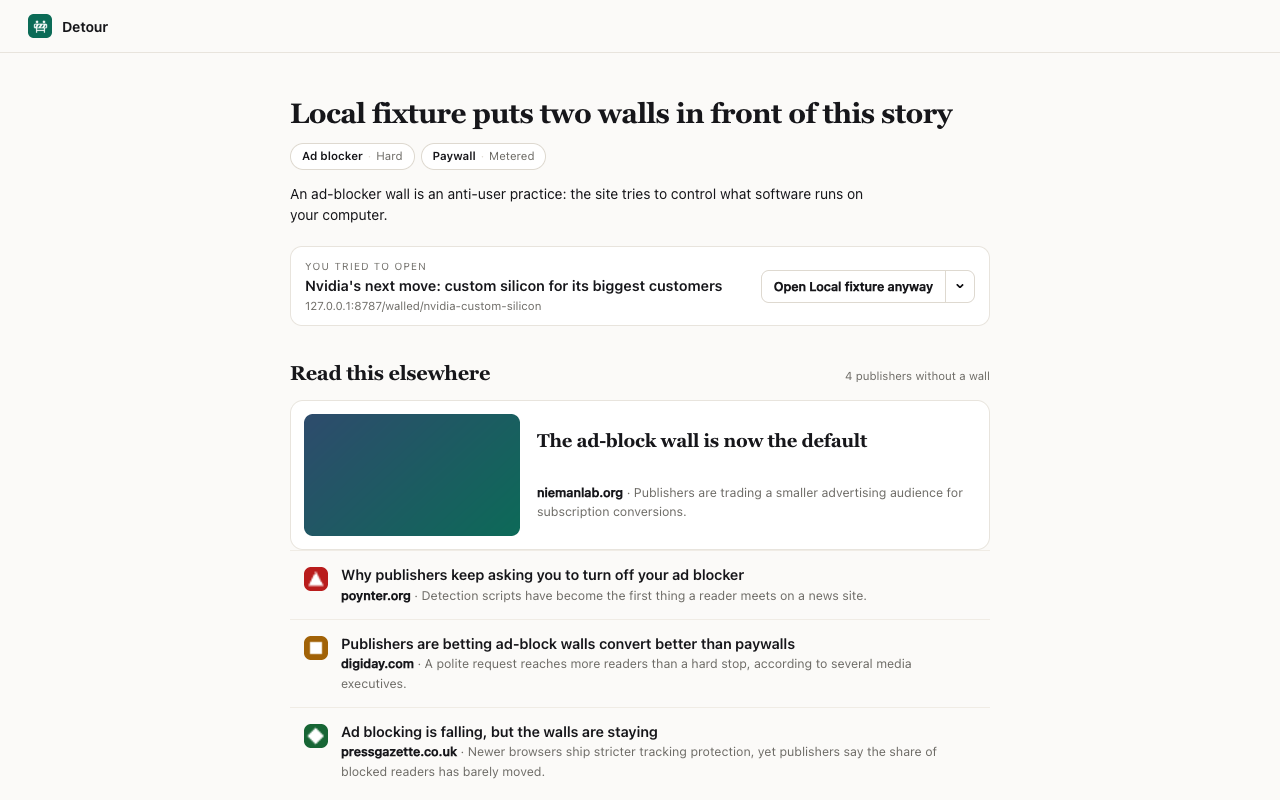
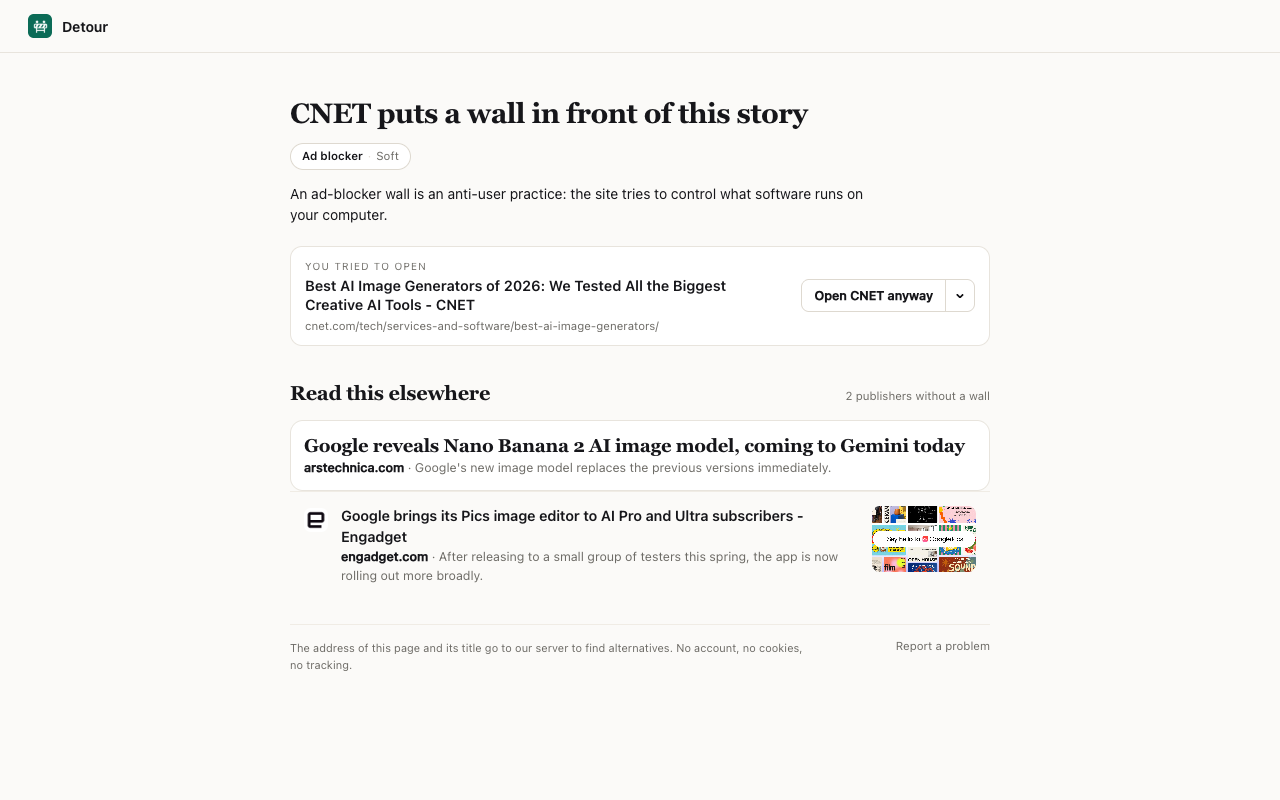
Take the store shot from a real article
The block page screenshot came from the local fixture, so the listing read
"Local fixture" and 127.0.0.1. `pnpm store:shot --live=<url>` builds the
development extension against the production backend, stops a real article,
and waits for the real answers. The shot now names CNET, its article, and the
publishers that carry the story.

The real answers showed a fault. A preview image that the backend cannot fetch
left a broken picture in the row. A failed image now leaves the row without one
and switches the row to its text layout.

The store item id is gjmlbmcaklcbificepnkpenfhelngklo. The release tool names it
in DEFAULT_ITEM_ID, CWS_ITEM_ID overrides it, and the backend allows it next to
the development id.

pnpm check passes 693 tests.

diff --git a/store/capture.ts b/store/capture.ts
@@ -7,6 +7,7 @@ import type { BrowserContext, Page } from '@playwright/test';
 import { chromium } from '@playwright/test';
 
 import { startDummyServer } from '../dev/dummy-server';
+import { RELEASE_API_BASE } from './listing';
 
 export const ROOT = resolve(import.meta.dirname, '..');
 export const ASSETS = join(ROOT, 'store', 'assets');
@@ -131,8 +132,99 @@ async function launch(
   });
 }
 
+/**
+ * The address of a real article that the list walls. The run builds the release
+ * extension, so the block page asks the production backend for the answers.
+ */
+export function liveUrl(argv: readonly string[]): string | null {
+  const flag = argv.find((arg) => arg.startsWith('--live='));
+
+  if (flag === undefined) {
+    return null;
+  }
+
+  const value = flag.slice('--live='.length).trim();
+
+  if (!value.startsWith('https://')) {
+    throw new Error('--live takes the https address of an article that the list walls');
+  }
+
+  return value;
+}
+
+/** The dist directory must be the release build, which names the backend. */
+async function requireReleaseBuild(): Promise<void> {
+  const manifest = JSON.parse(await readFile(join(DIST, 'manifest.json'), 'utf8')) as {
+    host_permissions?: string[];
+  };
+
+  if (!(manifest.host_permissions ?? []).includes(`${RELEASE_API_BASE}/*`)) {
+    throw new Error('this build does not name the release backend; run pnpm store:shot');
+  }
+}
+
 async function ready(context: BrowserContext): Promise<void> {
   await (context.serviceWorkers()[0] ?? context.waitForEvent('serviceworker'));
+}
+
+/** The block page of one guarded address, after the answers arrive. */
+async function shootBlocked(context: BrowserContext, url: string): Promise<Buffer> {
+  const page = await context.newPage();
+
+  try {
+    await page.setViewportSize(SHOT);
+    await page.goto(url).catch((error: unknown) => {
+      if (!(error instanceof Error) || !ABORTED.test(error.message)) {
+        throw error;
+      }
+    });
+    await page.waitForURL(BLOCK_PAGE, { timeout: 20_000 });
+
+    const answers = page.locator('[data-role="alternatives"]');
+
+    try {
+      await answers.and(page.locator('[data-state="results"]')).waitFor({ timeout: 30_000 });
+    } catch {
+      const state = await answers.getAttribute('data-state');
+
+      throw new Error(`the block page ended as "${state ?? 'unknown'}" and not "results"`);
+    }
+    await page
+      .waitForFunction(
+        () => [...document.images].every((image) => image.complete && image.naturalWidth > 0),
+        undefined,
+        { timeout: 15_000 },
+      )
+      .catch(() => undefined);
+
+    return await page.screenshot({ fullPage: false });
+  } finally {
+    await page.close();
+  }
+}
+
+/**
+ * One shot of a real article. The page, the title, and the answers are the ones
+ * that a reader meets, so the listing shows no fixture text.
+ */
+async function captureLive(url: string): Promise<void> {
+  await requireReleaseBuild();
+
+  const profile = await mkdtemp(join(tmpdir(), 'detour-store-'));
+  const context = await launch(profile, SHOT, 1);
+
+  try {
+    await ready(context);
+    await mkdir(ASSETS, { recursive: true });
+
+    const path = join(ASSETS, 'screenshot-block.png');
+
+    await writeFile(path, await shootBlocked(context, url));
+    process.stdout.write(`${path}\n`);
+  } finally {
+    await context.close();
+    await rm(profile, { recursive: true, force: true });
+  }
 }
 
 /**
@@ -141,6 +233,14 @@ async function ready(context: BrowserContext): Promise<void> {
  * cannot show a page that no longer exists.
  */
 async function main(): Promise<void> {
+  const live = liveUrl(process.argv.slice(2));
+
+  if (live !== null) {
+    await captureLive(live);
+
+    return;
+  }
+
   const server = await startDummyServer({ port: PORT }).catch((error: unknown) => {
     throw new Error(
       `the dummy server did not start on ${ORIGIN}: ${error instanceof Error ? error.message : String(error)}`,
@@ -163,30 +263,7 @@ async function main(): Promise<void> {
   try {
     await Promise.all([ready(page), ready(crisp)]);
 
-    const blocked = await page.newPage();
-
-    await blocked.goto(BLOCK_URL).catch((error: unknown) => {
-      if (!(error instanceof Error) || !ABORTED.test(error.message)) {
-        throw error;
-      }
-    });
-    await blocked.waitForURL(BLOCK_PAGE, { timeout: 15_000 });
-    await blocked.locator('[data-role="alternatives"][data-state="results"]').waitFor({
-      timeout: 20_000,
-    });
-    await blocked
-      .waitForFunction(
-        () => [...document.images].every((image) => image.complete && image.naturalWidth > 0),
-        undefined,
-        { timeout: 10_000 },
-      )
-      .catch(() => undefined);
-
-    await writeFile(
-      join(ASSETS, 'screenshot-block.png'),
-      await blocked.screenshot({ fullPage: false }),
-    );
-    await blocked.close();
+    await writeFile(join(ASSETS, 'screenshot-block.png'), await shootBlocked(page, BLOCK_URL));
 
     const settings = await page.newPage();
 

diff --git a/packages/extension/src/block-results.ts b/packages/extension/src/block-results.ts
@@ -104,12 +104,18 @@ function tileElement(alternative: Alternative, imagesEnabled: boolean): HTMLSpan
   return tile;
 }
 
-function imageElement(url: string): HTMLImageElement {
+/**
+ * The preview image of a row. The backend serves it and a publisher may refuse
+ * that request, so a failed image leaves the row without one and not with a
+ * broken picture.
+ */
+function imageElement(url: string, onFail: () => void): HTMLImageElement {
   const image = document.createElement('img');
 
   image.alt = '';
   image.setAttribute('referrerpolicy', 'no-referrer');
   image.setAttribute('loading', 'lazy');
+  image.addEventListener('error', onFail);
   image.src = url;
 
   return image;
@@ -128,7 +134,12 @@ function rowFor(alternative: Alternative, imagesEnabled: boolean, hero: boolean)
   const row = document.createElement('li');
   const link = document.createElement('a');
   const preview =
-    imagesEnabled && typeof alternative.image === 'string' ? imageElement(alternative.image) : null;
+    imagesEnabled && typeof alternative.image === 'string'
+      ? imageElement(alternative.image, () => {
+          preview?.remove();
+          row.dataset.layout = 'text';
+        })
+      : null;
 
   row.dataset.variant = hero ? 'hero' : 'row';
 

diff --git a/store/release.ts b/store/release.ts
@@ -8,6 +8,9 @@ import { RELEASE_API_BASE } from './listing';
 import { DIST, OUT } from './pack';
 import { compareVersions, versionProblem } from './version';
 
+/** The item that the store created for this extension. */
+export const DEFAULT_ITEM_ID = 'gjmlbmcaklcbificepnkpenfhelngklo';
+
 /** How long the upload may stay IN_PROGRESS before the run gives up. */
 export const UPLOAD_WAIT_SECONDS = 120;
 
@@ -274,16 +277,12 @@ async function main(): Promise<void> {
   const args = parseArgs(process.argv.slice(2));
   const env = process.env;
   const publisherId = env.CWS_PUBLISHER_ID?.trim() ?? '';
-  const itemId = env.CWS_ITEM_ID?.trim() ?? '';
+  const itemId = env.CWS_ITEM_ID?.trim() || DEFAULT_ITEM_ID;
   const clientId = env.CWS_CLIENT_ID?.trim() ?? '';
   const refreshToken = env.CWS_REFRESH_TOKEN?.trim() ?? '';
 
   if (publisherId === '') {
     throw new Error('CWS_PUBLISHER_ID is not set; it is the id of the Publisher, not of the item');
-  }
-
-  if (itemId === '') {
-    throw new Error('CWS_ITEM_ID is not set; the dashboard shows it on the Package tab');
   }
 
   if (clientId === '' || refreshToken === '') {

diff --git a/store/capture.test.ts b/store/capture.test.ts
@@ -11,6 +11,7 @@ import {
   SHOT,
   STORE_ICON,
   TILE,
+  liveUrl,
   marqueePage,
   stagePage,
   storeIconPage,
@@ -127,6 +128,13 @@ describe('the store images', () => {
     expect(html).toContain(`height: ${SHOT.height}px`);
     expect(html).toContain('#FBFAF8');
     expect(html).toContain(LOGO);
+  });
+
+  it('takes the address of a real article and refuses anything else', () => {
+    expect(liveUrl([])).toBeNull();
+    expect(liveUrl(['--live=https://www.cnet.com/a'])).toBe('https://www.cnet.com/a');
+    expect(() => liveUrl(['--live=http://www.cnet.com/a'])).toThrow('https');
+    expect(() => liveUrl(['--live='])).toThrow('https');
   });
 
   it('keeps the popup at the width of its frame', () => {

diff --git a/store/release.test.ts b/store/release.test.ts
@@ -1,9 +1,15 @@
 import { describe, expect, it } from 'vitest';
 
 import type { ReleaseOptions, StoreClient, StatusView } from './release';
-import { highest, parseArgs, refusal, runRelease, statusView } from './release';
+import { DEFAULT_ITEM_ID, highest, parseArgs, refusal, runRelease, statusView } from './release';
 
 const ITEM = 'jcncblagncbpbamfnekhdkomffdpehpk';
+
+describe('the store item', () => {
+  it('names the item from the store, which is 32 letters from a to p', () => {
+    expect(DEFAULT_ITEM_ID).toMatch(/^[a-p]{32}$/);
+  });
+});
 
 function revision(state: string, version: string | null): Record<string, unknown> {
   return {

diff --git a/packages/extension/src/block-results.test.ts b/packages/extension/src/block-results.test.ts
@@ -239,6 +239,18 @@ describe('the alternatives list', () => {
     expect(tile?.textContent).toBe('T');
   });
 
+  it('drops a preview image that does not load', () => {
+    renderAlternatives(view({ state: 'results', answer: ANSWER }));
+
+    const hero = rows()[0];
+    const image = hero?.querySelector('img');
+
+    image?.dispatchEvent(new Event('error'));
+
+    expect(hero?.querySelector('img')).toBeNull();
+    expect(hero?.dataset.layout).toBe('text');
+  });
+
   it('writes the domain and the description on the row line', () => {
     renderAlternatives(view({ state: 'results', answer: ANSWER }));
 

diff --git a/store/README.md b/store/README.md
@@ -32,13 +32,20 @@ so the first upload and the whole listing go through the dashboard.
    images from `store/assets`.
 7. Add the secrets to the repository: `CWS_PUBLISHER_ID`, `CWS_CLIENT_ID`,
    `CWS_CLIENT_SECRET`, and `CWS_REFRESH_TOKEN`. Put them in the environment
-   `chrome-web-store`, and require a reviewer for it. Add `CWS_ITEM_ID` beside
-   them: the dashboard shows it on the Package tab, and it is not a secret.
+   `chrome-web-store`, and require a reviewer for it.
 
-The store grants the item its id and its public key on the first upload. The release
-build drops the `key` field, because a package that carries one is refused. To give the
-unpacked development build the published id, copy the public key from the Package tab
-into `packages/extension/manifest.json`.
+The store created the item with the id `gjmlbmcaklcbificepnkpenfhelngklo`. It is not a secret, and
+`store/release.ts` names it in `DEFAULT_ITEM_ID`. Set `CWS_ITEM_ID` only to work on another
+item.
+
+The production backend allows this id and the pinned development id
+`jcncblagncbpbamfnekhdkomffdpehpk`. A build without the key takes its id from its directory,
+and that id is neither of the two, so only a keyed build and the published package speak
+with an identity that the backend knows.
+
+The release build drops the `key` field, because a package that carries one is refused.
+To give the unpacked development build the published id, copy the public key from the
+Package tab into `packages/extension/manifest.json`.
 
 ## The listing sheet
 
@@ -68,12 +75,21 @@ JSON and run the command again.
 pnpm store:capture
 ```
 
-The command builds the development extension, starts the dummy server, and draws the
-images from the real pages. It needs the Chromium that `pnpm exec playwright install chromium`
-installs. The screenshots show the local fixtures, so the page names
-read `Local fixture` and the address reads `127.0.0.1`. Replace a screenshot with a real
-page before the first upload if the listing should name a publisher. The PNGs are
-committed, and a test checks their size.
+The command builds the development extension, starts the dummy server, and draws every
+image from the real pages, with the local fixtures as their data. It needs the Chromium
+that `pnpm exec playwright install chromium` installs.
+
+One shot of a real article replaces the block page image:
+
+```bash
+pnpm store:shot --live=https://www.cnet.com/tech/services-and-software/best-ai-image-generators/
+```
+
+It builds the development extension against the production backend, stops that page, and
+waits for the real answers. The run uses the development build, because the development id
+is one of the two ids that the backend allows, and a build without the key has neither.
+
+The PNGs are committed, and a test checks their size.
 
 ## The release
 
@@ -96,8 +112,7 @@ pnpm store:publish --dry-run
 - `--mode=none` uploads without a submission, so a person can submit from the dashboard.
 - `--dry-run` reads the status and stops before the upload.
 
-Every run needs `CWS_ITEM_ID`. It names the item, and the dashboard shows it on the
-Package tab after the first upload.
+The run names the item id `gjmlbmcaklcbificepnkpenfhelngklo`. `CWS_ITEM_ID` overrides it.
 
 The run compares the manifest version with every version that the store published, and it
 stops when the version is not higher. It also stops when the item is taken down or

diff --git a/AGENTS.md b/AGENTS.md
@@ -96,6 +96,7 @@ helpers in `src/testing/`.
 - **Test the extension alone**: `pnpm --filter @detour/extension test`
 - **Test the end-to-end flow**: `pnpm test:e2e`
 - **Capture the store images**: `pnpm store:capture`
+- **Capture one real page**: `pnpm store:shot --live=<url>`
 - **Build the website**: `pnpm site:build`
 - **Pack the store release**: `pnpm store:pack`
 - **Write the store listing sheet**: `pnpm store:sheet`
@@ -398,9 +399,10 @@ Store configuration:
   the wrong size.
 - The manifest version is the release version. Every upload raises it, because the store
   refuses a version that it already has.
-- The store grants the item id on the first upload, and `CWS_ITEM_ID` names it. The id
-  is not a secret. The publisher id, the OAuth client, and the refresh token come from
-  the `chrome-web-store` environment. Never commit one.
+- The store item id is `gjmlbmcaklcbificepnkpenfhelngklo`, `store/release.ts` names it in
+  `DEFAULT_ITEM_ID`, and `CWS_ITEM_ID` overrides it. The id is not a secret. The publisher
+  id, the OAuth client, and the refresh token come from the `chrome-web-store`
+  environment. Never commit one.
 - A `v*` tag packs and keeps the ZIP. A manual run submits it from the environment that
   asks a reviewer for approval.
 - `pnpm store:capture` draws the images from the real pages and the local fixtures. The

diff --git a/docs/architecture.md b/docs/architecture.md
@@ -67,11 +67,13 @@ The extension does not request `tabs`. `chrome.tabs.update`,
 `chrome.tabs.onRemoved`, and `sender.tab.openerTabId` work without it, and
 `*://*/*` already gives the guard its page access.
 
-The manifest carries one fixed public key, and no private key is in the
-repository. The SHA-256 of that key, with each digit mapped to the letters `a`
-to `p`, gives the extension id `jcncblagncbpbamfnekhdkomffdpehpk`. That key
-and id are the provisional development identity. A backend that checks the
-caller origin must allow `chrome-extension://` followed by that id.
+The manifest carries one fixed public key for development, and no private key is
+in the repository. The SHA-256 of that key, with each digit mapped to the letters
+`a` to `p`, gives the development id `jcncblagncbpbamfnekhdkomffdpehpk`. The
+release build drops the key, because a store upload refuses a package that
+carries one, and the store grants the published item its own id and key:
+`gjmlbmcaklcbificepnkpenfhelngklo`. A backend that checks the caller origin must
+allow `chrome-extension://` followed by both ids.
 
 `pnpm build` writes the release build, and `pnpm build:dev` writes the
 development build. Both write `packages/extension/dist`: the bundles

diff --git a/DEVELOPMENT.md b/DEVELOPMENT.md
@@ -204,6 +204,7 @@ pastes into the dashboard.
 ```sh
 pnpm site:build      # the website and its privacy page
 pnpm store:capture   # the images of the listing, from the local fixtures
+pnpm store:shot --live=<url>   # one real article in the block page shot
 pnpm store:pack      # the release build and store/dist/detour-<version>.zip
 pnpm store:status    # the version that the store published
 pnpm store:publish   # upload the ZIP and stage it
